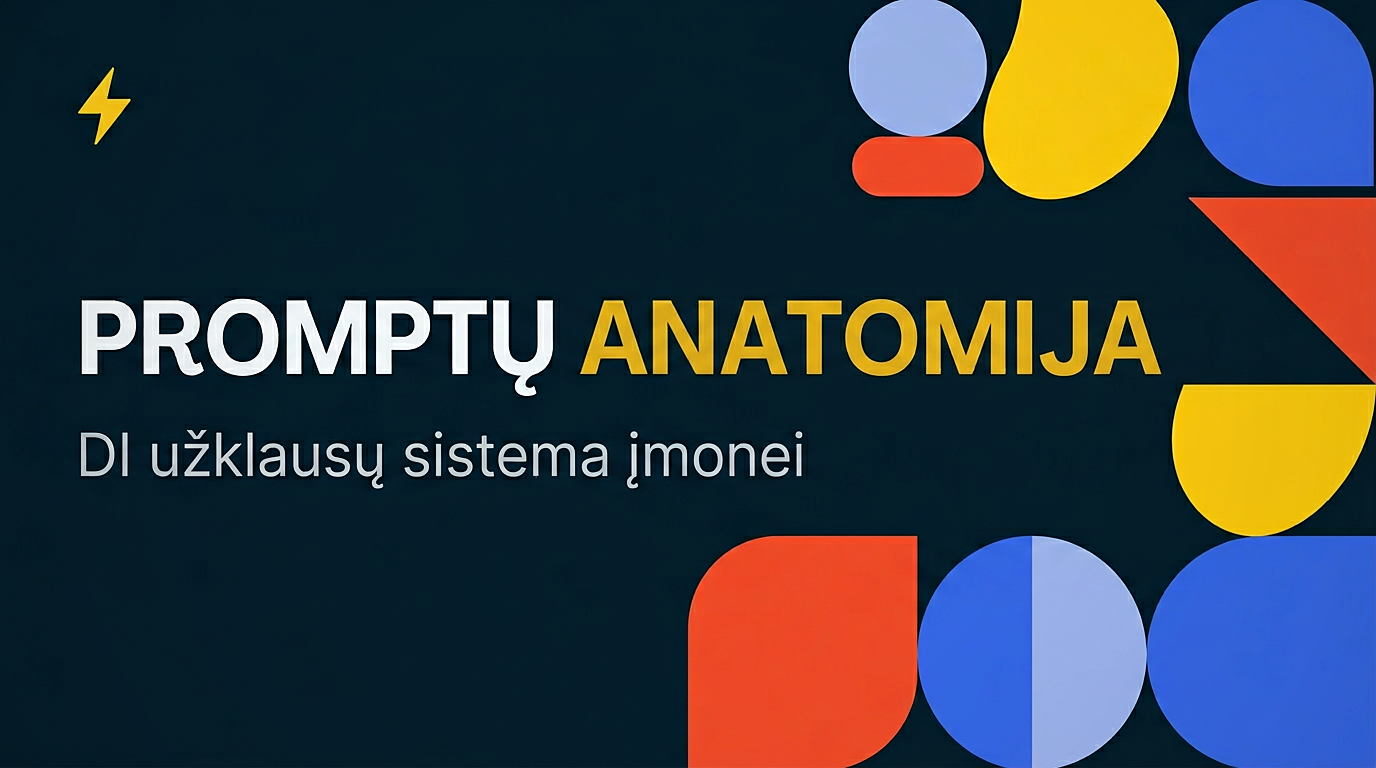
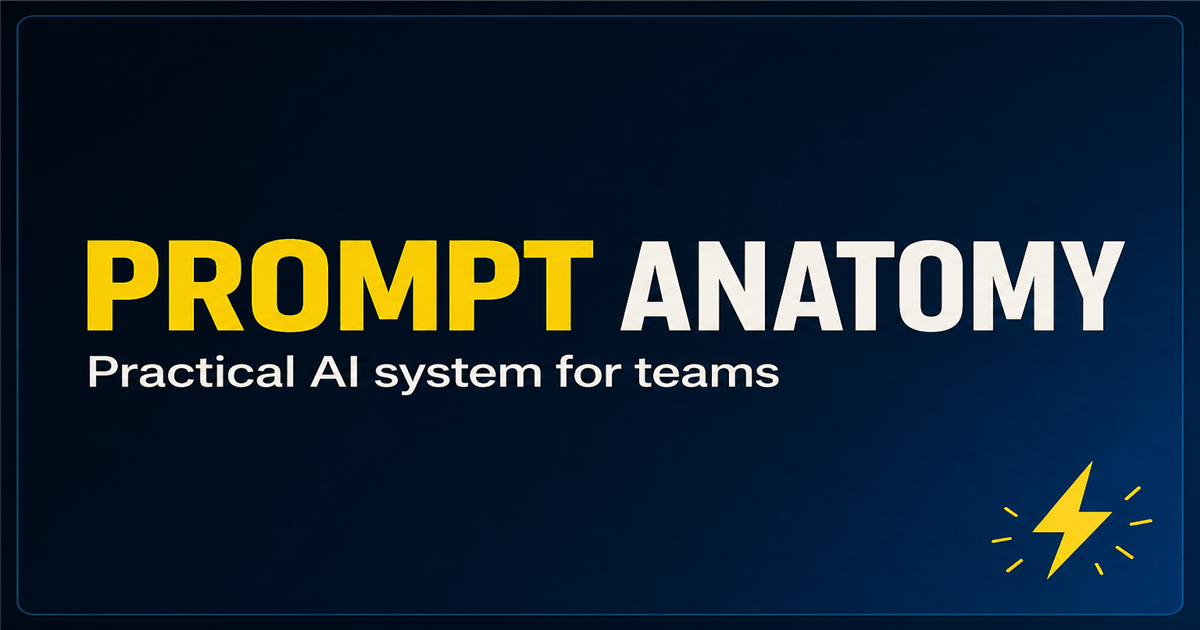
feat(og): English social card PNG 1200x630, meta dimensions, LT social EN
- New assets/og-promptanatomy.png (EN artwork, standard OG size)
- index.html og:image width/height 1200x630
- build-locale-pages: applyLtSocialEnglish for LT share previews
- CHANGELOG: OG + prior domain/SEO entry context

Made-with: Cursor

diff --git a/scripts/build-locale-pages.js b/scripts/build-locale-pages.js
@@ -86,6 +86,51 @@ function setOgUrl(html, absoluteUrl) {
   );
 }
 
+/**
+ * LT page content stays Lithuanian; Open Graph / Twitter preview fields use English so og:image
+ * and shared cards match international English artwork and copy (same PNG as EN build).
+ */
+function applyLtSocialEnglish(html) {
+  const pairs = [
+    [
+      '<meta property="og:title" content="Promptų anatomija — darbui ir vadovavimui">',
+      '<meta property="og:title" content="Prompt Anatomy — for work and leadership">'
+    ],
+    [
+      '<meta property="og:description" content="DI praktinė sistema įmonei: biblioteka, schema, greita patikra ir trumpas quiz — mažiau taisymo, daugiau kontrolės.">',
+      '<meta property="og:description" content="A practical AI prompt system for teams: library, schema, quick send check, short quiz — less rework, more control.">'
+    ],
+    [
+      '<meta property="og:site_name" content="Promptų anatomija">',
+      '<meta property="og:site_name" content="Prompt Anatomy">'
+    ],
+    [
+      '<meta property="og:image:alt" content="Promptų anatomija — DI praktinė sistema įmonei">',
+      '<meta property="og:image:alt" content="Prompt Anatomy — practical AI system for teams">'
+    ],
+    [
+      '<meta name="twitter:image:alt" content="Promptų anatomija — DI praktinė sistema įmonei">',
+      '<meta name="twitter:image:alt" content="Prompt Anatomy — practical AI system for teams">'
+    ],
+    [
+      '<meta name="twitter:title" content="Promptų anatomija — darbui ir vadovavimui">',
+      '<meta name="twitter:title" content="Prompt Anatomy — for work and leadership">'
+    ],
+    [
+      '<meta name="twitter:description" content="DI praktinė sistema įmonei: biblioteka, schema, greita patikra ir trumpas quiz — mažiau taisymo, daugiau kontrolės.">',
+      '<meta name="twitter:description" content="A practical AI prompt system for teams: library, schema, quick send check, short quiz — less rework, more control.">'
+    ]
+  ];
+  let h = html;
+  for (const [from, to] of pairs) {
+    if (!h.includes(from)) {
+      console.warn('[build] LT social EN fragment not found:', from.slice(0, 72));
+    }
+    h = h.split(from).join(to);
+  }
+  return h;
+}
+
 function injectJsonLdPrimaryEn(html) {
   const payload = {
     '@context': 'https://schema.org',
@@ -176,6 +221,7 @@ function buildLt(html, canonicalHref) {
   let h = injectPageLocale(html, 'lt');
   h = injectHreflangBlock(h, canonicalHref);
   h = setOgUrl(h, canonicalHref);
+  h = applyLtSocialEnglish(h);
   return h;
 }
 

diff --git a/index.html b/index.html
@@ -21,8 +21,8 @@
     <meta property="og:image" content="https://promptanatomy.cloud/assets/og-promptanatomy.png">
     <meta property="og:image:secure_url" content="https://promptanatomy.cloud/assets/og-promptanatomy.png">
     <meta property="og:image:type" content="image/png">
-    <meta property="og:image:width" content="1376">
-    <meta property="og:image:height" content="768">
+    <meta property="og:image:width" content="1200">
+    <meta property="og:image:height" content="630">
     <meta property="og:image:alt" content="Promptų anatomija — DI praktinė sistema įmonei">
     <meta name="twitter:card" content="summary_large_image">
     <meta name="twitter:image" content="https://promptanatomy.cloud/assets/og-promptanatomy.png">

diff --git a/CHANGELOG.md b/CHANGELOG.md
@@ -33,6 +33,7 @@ Visos reikšmingos šio projekto pataisos bus dokumentuojamos čia. Formatas rem
 
 ### Changed
 
+- **OG paveikslas (anglų social preview):** naujas [assets/og-promptanatomy.png](assets/og-promptanatomy.png) — angliškas maketas, standartinis dydis **1200×630**; [index.html](index.html) `og:image:width` / `og:image:height` sutapdinti.
 - **Domenai ir SEO (pamoka .cloud, brendas .app):** interaktyvios pamokos `canonical`, `hreflang`, `og:url` / `og:image` / `twitter:image`, `sitemap.xml`, `robots.txt` ir EN JSON-LD sutapdinti su kanoniniu hostu [promptanatomy.cloud](https://promptanatomy.cloud/); statiniame build naudojamas env **`PUBLIC_ORIGIN`** (numatyta `https://promptanatomy.cloud` be papildomų nustatymų). [www.promptanatomy.app](https://www.promptanatomy.app/) lieka motinine / brendo paskirtimi (kūno nuorodos: brand lockup, programos CTA). **Favicon:** `site/lt/index.html` naudoja `../favicon.svg`. Hero atskirtis: LT „Brendo svetainė“, EN „Brand site“. Pakeisti failai: [index.html](index.html), [scripts/build-locale-pages.js](scripts/build-locale-pages.js), [scripts/en-html-replacements.cjs](scripts/en-html-replacements.cjs), [404.html](404.html), [.github/workflows/verify.yml](.github/workflows/verify.yml); dokumentacija — [AGENTS.md](AGENTS.md), [README.md](README.md), [SETUP.md](SETUP.md), [.cursor/rules/projektas-promptu-anatomija.mdc](.cursor/rules/projektas-promptu-anatomija.mdc), [.cursor/skills/q-a-agent/SKILL.md](.cursor/skills/q-a-agent/SKILL.md).
 - **CTA hierarchija:** hero pagrindinis veiksmas dabar veda į 2 min. praktiką, o PDF lieka antrinis; finalinėje CTA skaidrėje pagrindinis veiksmas perkeliamas į programos ir kainos peržiūrą, PDF paliekant kaip santrauką. EN build poros ir sugeneruotas `site/` sutapdinti — [index.html](index.html), [scripts/en-html-replacements.cjs](scripts/en-html-replacements.cjs).
 - **Gilumo skaidrių etiketės (LT/EN nuoseklumas):** skaidrėse 7–11 `<b>` etiketės suvienodintos su skaidrės 6 stiliumi — `Užduotis / Įvestis / Grąžink` → `UŽDUOTIS / ĮVESTIS / REZULTATAS` (LT) ir `Task / Input / Return` → `TASK / INPUT / OUTPUT` (EN). „REZULTATAS“ / „OUTPUT“ sutampa su 5-ių žingsnių schemos terminija. Skaidrė 6 (QC) lieka `VAIDMUO / KONTEKSTAS / REZULTATAS` — [index.html](index.html), [scripts/en-html-replacements.cjs](scripts/en-html-replacements.cjs).
